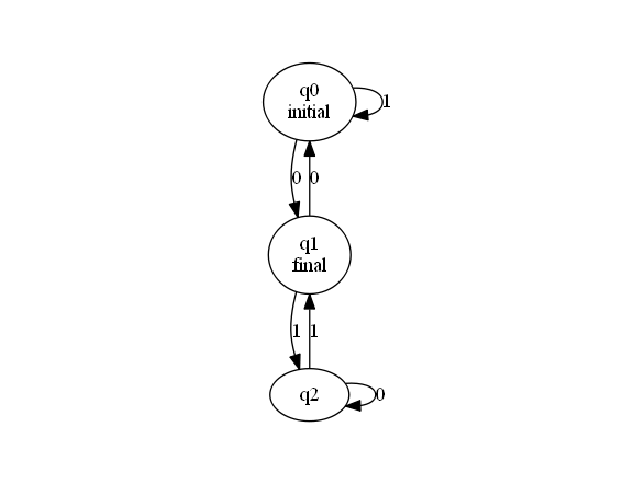
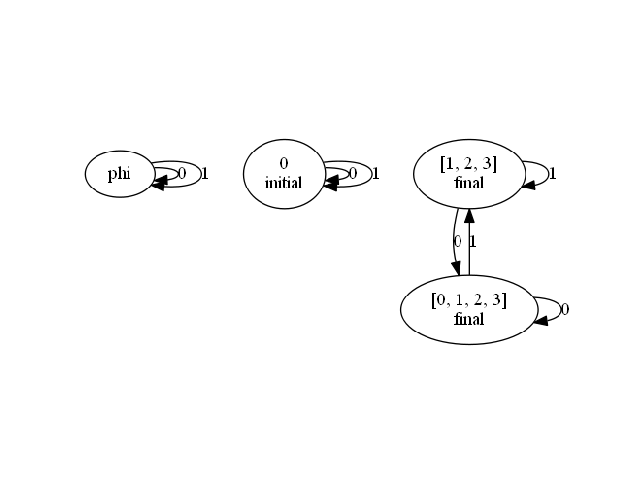
sorta works

diff --git a/DFA.py b/DFA.py
@@ -1,8 +1,9 @@
 import os
-import networkx as nx
-import matplotlib.pyplot as plt
-import matplotlib.image as mpimg
 from io import BytesIO
+
+import matplotlib.image as mpimg
+import matplotlib.pyplot as plt
+import networkx as nx
 
 os.environ["PATH"] += os.pathsep + 'C:\\Users\\R\\Downloads\\graphviz-2.38\\release\\bin'
 
@@ -172,8 +173,9 @@ def getAlpha():
     print('Pleas input the alphabets for the DFA separated by spaces.')
     return ''.join(input().split())
 
+
 def readDFA(self, filename):
-    filename = os.path.dirname(os.path.abspath(__file__))+'/'+filename
+    filename = os.path.dirname(os.path.abspath(__file__)) + '/' + filename
     fileLineCtr = 0
     alpha = '01'
     f = file.open(filename, 'r')
@@ -191,12 +193,13 @@ def readDFA(self, filename):
         elif fileLineCtr > 2:
             transistionsFromq = line.split()
 
-            Delta[ (Q[fileLineCtr-3], '0') ], Delta[ (Q[fileLineCtr-3], '1') ] = transistionsFromq
+            Delta[(Q[fileLineCtr - 3], '0')], Delta[(Q[fileLineCtr - 3], '1')] = transistionsFromq
 
-        fileLineCtr+=1
-    
+        fileLineCtr += 1
+
     f.close()
     return DFA(Q, initialState, alpha, Delta, F)
+
 
 def getTransistionFunction(n):
     print(
@@ -210,15 +213,66 @@ def getTransistionFunction(n):
 
 
 if __name__ == "__main__":
-    Q = ['q0', 'q1', 'q2']
-    initialState = 'q0'
+    """   DFA:
+    Σ: {0, 1}
+    q0: {0}
+    δ:
+    {0: {0: [1, 2, 3], 1: [1, 2, 3]},
+     'phi': {0: 'phi', 1: 'phi'},
+     [0, 1, 2, 3]: {0: [0, 1, 2, 3], 1: [1, 2, 3]},
+     [1, 2, 3]: {0: [0, 1, 2, 3], 1: [1, 2, 3]}}
+    Q: {0, [1, 2, 3], 'phi', [0, 1, 2, 3]}
+    F: {[1, 2, 3], [0, 1, 2, 3]}
+       """
+
+    with open("Output_DFA") as f:
+        temp = f.readlines()
+        # remove null character
+    temp = [x.strip() for x in temp]
+
+    new_lst = []
+
+
+    def replaceBrackets(str):
+        lst = []
+        for element in str:
+            if element.isdigit():
+                lst.append(int(element))
+        return list(lst)
+
+
+    for idx, val in enumerate(temp):
+        temp[idx] = temp[idx].replace('q', '')
+        lst = temp[idx].split()
+        for idx, val in enumerate(lst):
+            if ',' in val:
+                lst[idx] = replaceBrackets(val)
+            if len(val) == 1:
+                lst[idx] = int(val)
+        new_lst.append(lst)
+
+    temp = new_lst
+
+    states = temp[0]
+    alphabet = [0, 1]
+    start_state = temp[1]
+    accept_states = temp[2]
+
+    dict = {}
+
+    for i in range(0, len(states)):
+        dict[i] = states[i]
+
+    Q = (list(map(str, states)))
+    F = (list(map(str, accept_states)))
+
+    Q = (list(map(str, states)))
+    initialState = '0'
     alpha = '01'
-    delta = [[1, 0], [0, 2], [2, 1]]
-    F = ['q1']
+
+    delta = [[0, 0], [1, 1], [3, 2], [3, 2]]
 
     firstDFA = DFA(Q, initialState, alpha, matrixToDict(Q, alpha, delta), F)
-    # inp = input("Please enter the input for the DFA:")
-    # firstDFA.runDFA(inp)
-    filename = os.path.dirname(os.path.abspath(__file__)) + '/' + input(
-        "Enter filename for the figure (like example.png): ")
-    firstDFA.visualize(filename)
+filename = os.path.dirname(os.path.abspath(__file__)) + '/' + input(
+    "Enter filename for the figure (like example.png): ")
+firstDFA.visualize(filename)

diff --git a/eps-NFA.py b/eps-NFA.py
@@ -1,9 +1,6 @@
 import os
-import networkx as nx
-import matplotlib.pyplot as plt
-import matplotlib.image as mpimg
-from io import BytesIO
-from DFA import State, DFA
+
+from DFA import State
 
 
 class eNFA:
@@ -20,12 +17,14 @@ class eNFA:
         self.F = F
         self.setF(F)
         # print (F)
+
     def setQ(self, Q):
         self.Q = {}
         for x in Q:
             self.Q[x] = State(x)
 
         # print(Q)
+
     def setF(self, F):
         for x in F:
             self.Q[x].setFinal()
@@ -62,8 +61,6 @@ class eNFA:
                 if not y in presState:
                     presState.append(y)
 
-
-
         for a in inp:
             nextState = []
             for y in presState:
@@ -72,15 +69,15 @@ class eNFA:
                 nextState = list(set(list(nextState + self.ECLOSE(y))))
             presState = nextState
 
-
         for y in presState:
             if self.Q[y].isFinal:
                 return 'Yes'
 
         return 'No'
 
+
 def read_eNFA(filename):
-    filename = os.path.dirname(os.path.abspath(__file__))+'/'+filename
+    filename = os.path.dirname(os.path.abspath(__file__)) + '/' + filename
     fileLineCtr = 0
     alpha = '01'
     f = open(filename, 'r')
@@ -97,28 +94,27 @@ def read_eNFA(filename):
 
         elif fileLineCtr > 2:
             transistionsFromq = line.split()
-            if transistionsFromq[0][0]!='{':
-                Delta[ (Q[fileLineCtr-3], '0') ] = transistionsFromq[0].split(',')
+            if transistionsFromq[0][0] != '{':
+                Delta[(Q[fileLineCtr - 3], '0')] = transistionsFromq[0].split(',')
             else:
-                Delta[ (Q[fileLineCtr-3], '0') ] = transistionsFromq[0][1:-1].split(',')
+                Delta[(Q[fileLineCtr - 3], '0')] = transistionsFromq[0][1:-1].split(',')
 
-            if transistionsFromq[1][0]!='{':
-                Delta[ (Q[fileLineCtr-3], '1') ] = transistionsFromq[1].split(',')
+            if transistionsFromq[1][0] != '{':
+                Delta[(Q[fileLineCtr - 3], '1')] = transistionsFromq[1].split(',')
             else:
-                Delta[ (Q[fileLineCtr-3], '1') ] = transistionsFromq[1][1:-1].split(',')
+                Delta[(Q[fileLineCtr - 3], '1')] = transistionsFromq[1][1:-1].split(',')
 
-            if transistionsFromq[2][0]!='{':
-                Delta[ (Q[fileLineCtr-3], 'e') ] = transistionsFromq[2].split(',')
+            if transistionsFromq[2][0] != '{':
+                Delta[(Q[fileLineCtr - 3], 'e')] = transistionsFromq[2].split(',')
             else:
-                Delta[ (Q[fileLineCtr-3], 'e') ] = transistionsFromq[2][1:-1].split(',')
+                Delta[(Q[fileLineCtr - 3], 'e')] = transistionsFromq[2][1:-1].split(',')
 
-
-
-        fileLineCtr+=1
+        fileLineCtr += 1
     Delta[('phi', '0')] = Delta[('phi', '1')] = Delta[('phi', 'e')] = ['phi']
 
     Q.append('phi')
     return eNFA(Q, initialState, alpha, Delta, F)
+
 
 if __name__ == "__main__":
     filename = input("Enter the input filename of the NFA: ")
